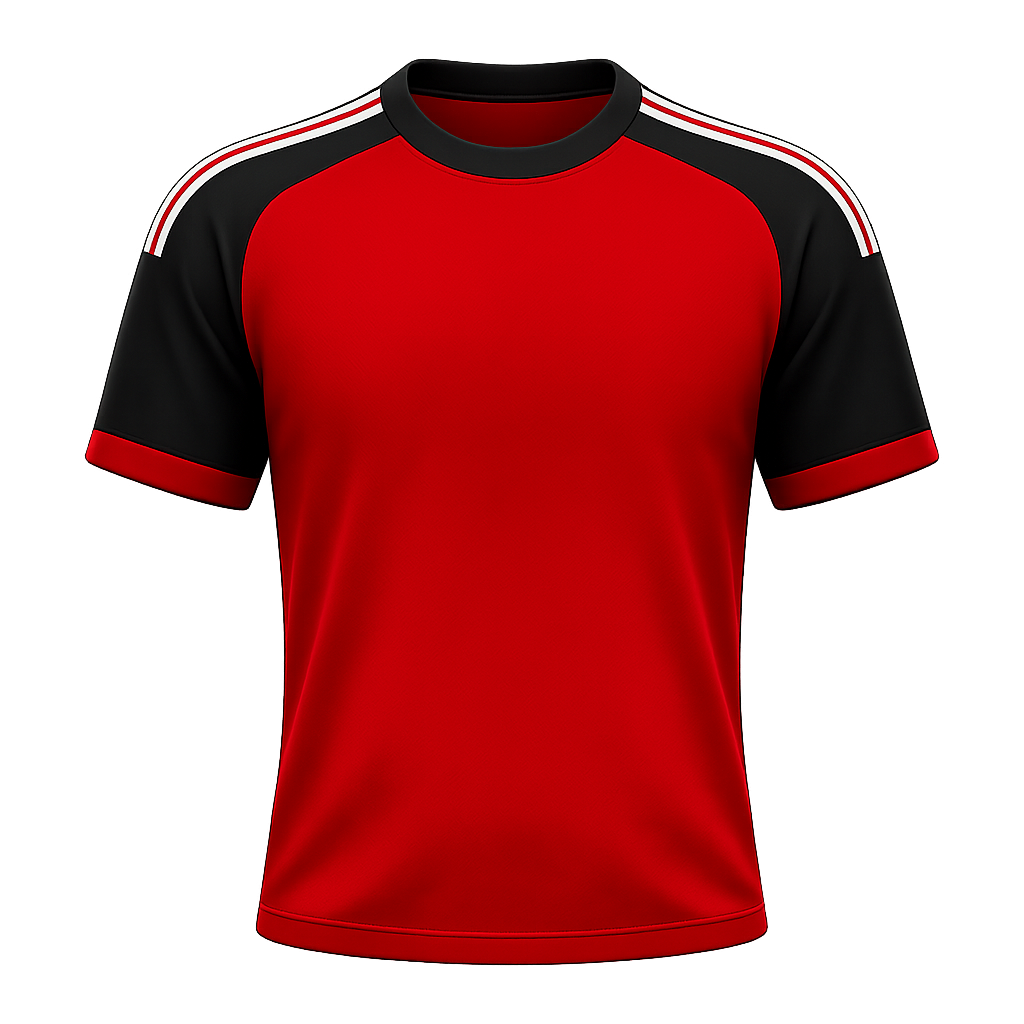
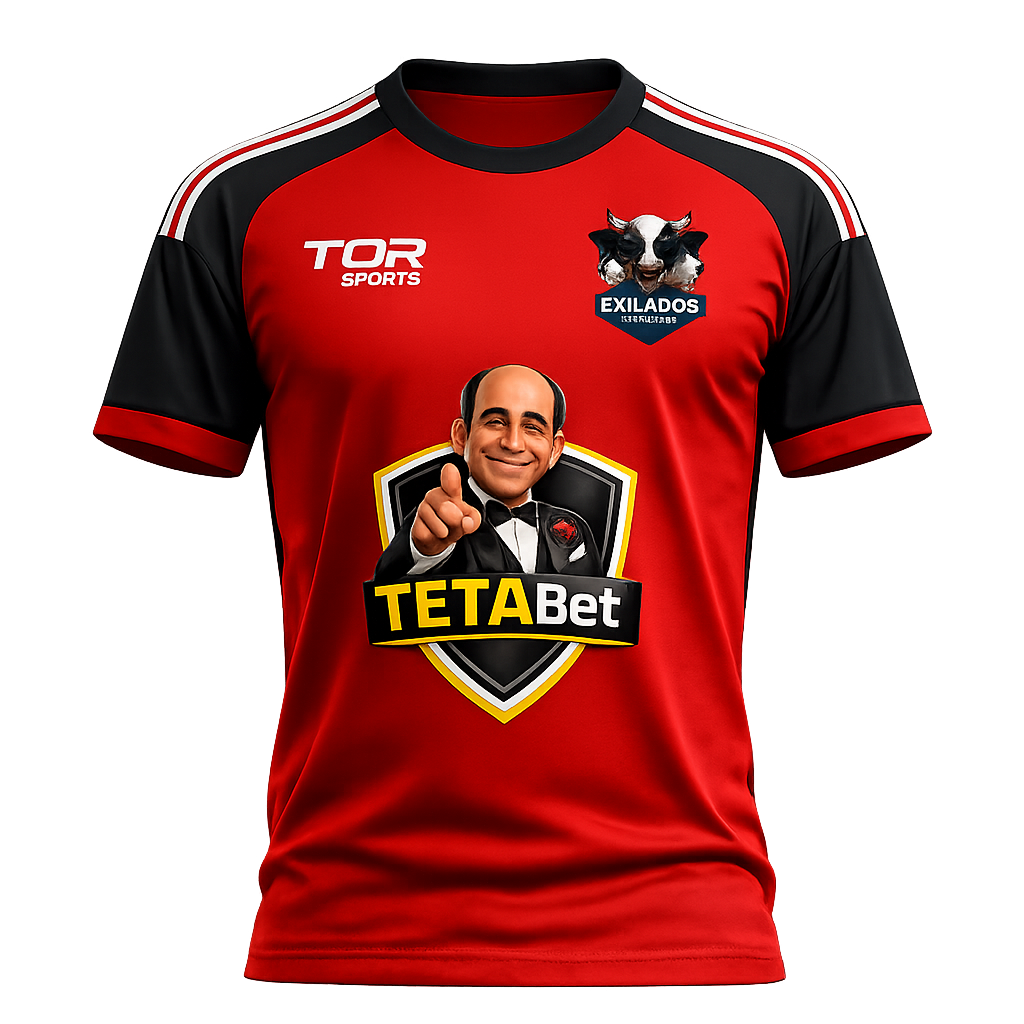
Add files via upload

diff --git a/index.html b/index.html
@@ -182,11 +182,11 @@
   <div class="page-body">
     <div class="teams-grid">
       <div class="team-col">
-        <div class="th-blue"><div style="display:flex;align-items:center;gap:8px;"><svg width="28" height="26" viewBox="0 0 100 110"><defs><clipPath id="clipAzul"><polygon points="0,22 22,0 50,12 78,0 100,22 84,34 84,110 16,110 16,34"/></clipPath></defs><polygon points="0,22 22,0 50,12 78,0 100,22 84,34 84,110 16,110 16,34" fill="#185FA5" stroke="#0C447C" stroke-width="2"/><ellipse cx="50" cy="13" rx="14" ry="9" fill="#FAC775" stroke="#0C447C" stroke-width="1.5"/><rect x="0" y="38" width="100" height="14" fill="#FAC775" clip-path="url(#clipAzul)"/><polygon points="0,22 22,0 28,0 8,26" fill="#FAC775" clip-path="url(#clipAzul)"/><polygon points="78,0 100,22 92,26 72,0" fill="#FAC775" clip-path="url(#clipAzul)"/><text x="50" y="90" text-anchor="middle" font-size="28" font-weight="700" fill="white" font-family="sans-serif">10</text></svg><div style="flex:1;text-align:center;"><div class="team-title y">Time Azul</div><div class="team-cnt y" id="jt-cnt-a">0 jog.</div></div></div></div>
+        <div class="th-blue"><div style="display:flex;align-items:center;gap:8px;"><img class="team-shirt-icon" src="camisa-azul.png?v=2" alt="Camisa do Time Azul"/><div style="flex:1;text-align:center;"><div class="team-title y">Time Azul</div><div class="team-cnt y" id="jt-cnt-a">0 jog.</div></div></div></div>
         <div class="team-body" id="jt-team-a"></div>
       </div>
       <div class="team-col">
-        <div class="th-red"><div style="display:flex;align-items:center;gap:8px;"><svg width="28" height="26" viewBox="0 0 100 110"><defs><clipPath id="clipVerm"><polygon points="0,22 22,0 50,12 78,0 100,22 84,34 84,110 16,110 16,34"/></clipPath></defs><polygon points="0,22 22,0 50,12 78,0 100,22 84,34 84,110 16,110 16,34" fill="#A32D2D" stroke="#791F1F" stroke-width="2"/><ellipse cx="50" cy="13" rx="14" ry="9" fill="#2C2C2A" stroke="#444441" stroke-width="1.5"/><polygon points="16,34 0,34 0,110 28,110 28,34" fill="#2C2C2A" clip-path="url(#clipVerm)"/><polygon points="84,34 100,34 100,110 72,110 72,34" fill="#2C2C2A" clip-path="url(#clipVerm)"/><polygon points="0,22 22,0 28,0 8,26" fill="#2C2C2A" clip-path="url(#clipVerm)"/><polygon points="78,0 100,22 92,26 72,0" fill="#2C2C2A" clip-path="url(#clipVerm)"/><text x="50" y="90" text-anchor="middle" font-size="28" font-weight="700" fill="white" font-family="sans-serif">10</text></svg><div style="flex:1;text-align:center;"><div class="team-title w">Time Vermelho</div><div class="team-cnt w" id="jt-cnt-b">0 jog.</div></div></div></div>
+        <div class="th-red"><div style="display:flex;align-items:center;gap:8px;"><img class="team-shirt-icon" src="camisa-vermelha.png?v=2" alt="Camisa do Time Vermelho"/><div style="flex:1;text-align:center;"><div class="team-title w">Time Vermelho</div><div class="team-cnt w" id="jt-cnt-b">0 jog.</div></div></div></div>
         <div class="team-body" id="jt-team-b"></div>
       </div>
     </div>
@@ -416,7 +416,7 @@
       <div class="teams-grid">
         <div class="team-col">
           <div class="th-blue"><div style="display:flex;align-items:center;gap:8px;">
-            <svg width="28" height="26" viewBox="0 0 100 110"><defs><clipPath id="clipAzul"><polygon points="0,22 22,0 50,12 78,0 100,22 84,34 84,110 16,110 16,34"/></clipPath></defs><polygon points="0,22 22,0 50,12 78,0 100,22 84,34 84,110 16,110 16,34" fill="#185FA5" stroke="#0C447C" stroke-width="2"/><ellipse cx="50" cy="13" rx="14" ry="9" fill="#FAC775" stroke="#0C447C" stroke-width="1.5"/><rect x="0" y="38" width="100" height="14" fill="#FAC775" clip-path="url(#clipAzul)"/><polygon points="0,22 22,0 28,0 8,26" fill="#FAC775" clip-path="url(#clipAzul)"/><polygon points="78,0 100,22 92,26 72,0" fill="#FAC775" clip-path="url(#clipAzul)"/><text x="50" y="90" text-anchor="middle" font-size="28" font-weight="700" fill="white" font-family="sans-serif">10</text></svg>
+            <img class="team-shirt-icon" src="camisa-azul.png?v=2" alt="Camisa do Time Azul">
             <div style="flex:1;text-align:center;"><div class="team-title y">Time Azul</div><div class="team-cnt y" id="at-cnt-a">0 jog.</div></div>
           </div></div>
           <div class="team-body" id="at-team-a" ondragover="allowDrop(event)" ondrop="dropTo(event,'azul')">
@@ -425,7 +425,7 @@
         </div>
         <div class="team-col">
           <div class="th-red"><div style="display:flex;align-items:center;gap:8px;">
-            <svg width="28" height="26" viewBox="0 0 100 110"><defs><clipPath id="clipVerm"><polygon points="0,22 22,0 50,12 78,0 100,22 84,34 84,110 16,110 16,34"/></clipPath></defs><polygon points="0,22 22,0 50,12 78,0 100,22 84,34 84,110 16,110 16,34" fill="#A32D2D" stroke="#791F1F" stroke-width="2"/><ellipse cx="50" cy="13" rx="14" ry="9" fill="#2C2C2A" stroke="#444441" stroke-width="1.5"/><polygon points="16,34 0,34 0,110 28,110 28,34" fill="#2C2C2A" clip-path="url(#clipVerm)"/><polygon points="84,34 100,34 100,110 72,110 72,34" fill="#2C2C2A" clip-path="url(#clipVerm)"/><polygon points="0,22 22,0 28,0 8,26" fill="#2C2C2A" clip-path="url(#clipVerm)"/><polygon points="78,0 100,22 92,26 72,0" fill="#2C2C2A" clip-path="url(#clipVerm)"/><text x="50" y="90" text-anchor="middle" font-size="28" font-weight="700" fill="white" font-family="sans-serif">10</text></svg>
+            <img class="team-shirt-icon" src="camisa-vermelha.png?v=2" alt="Camisa do Time Vermelho">
             <div style="flex:1;text-align:center;"><div class="team-title w">Time Vermelho</div><div class="team-cnt w" id="at-cnt-b">0 jog.</div></div>
           </div></div>
           <div class="team-body" id="at-team-b" ondragover="allowDrop(event)" ondrop="dropTo(event,'vermelho')">
@@ -669,7 +669,7 @@
       <div class="resumo-time-azul">
         <div class="resumo-time-nome">Time Azul</div>
         <div class="resumo-score-wrap resumo-score-wrap-azul">
-          <svg class="resumo-camisa resumo-camisa-azul" viewBox="0 0 100 110" aria-hidden="true"><defs><clipPath id="resumoClipAzul"><polygon points="0,22 22,0 50,12 78,0 100,22 84,34 84,110 16,110 16,34"/></clipPath></defs><polygon points="0,22 22,0 50,12 78,0 100,22 84,34 84,110 16,110 16,34" fill="#185FA5" stroke="#0C447C" stroke-width="2"/><ellipse cx="50" cy="13" rx="14" ry="9" fill="#FAC775" stroke="#0C447C" stroke-width="1.5"/><rect x="0" y="38" width="100" height="14" fill="#FAC775" clip-path="url(#resumoClipAzul)"/><polygon points="0,22 22,0 28,0 8,26" fill="#FAC775" clip-path="url(#resumoClipAzul)"/><polygon points="78,0 100,22 92,26 72,0" fill="#FAC775" clip-path="url(#resumoClipAzul)"/><text x="50" y="90" text-anchor="middle" font-size="28" font-weight="700" fill="white" font-family="sans-serif">10</text></svg>
+        <img class="resumo-camisa resumo-camisa-azul" src="camisa-azul.png?v=2" alt="Camisa do Time Azul"/>
           <div class="resumo-gols" id="resumo-gols-azul">–</div>
         </div>
       </div>
@@ -677,8 +677,8 @@
       <div class="resumo-time-verm">
         <div class="resumo-time-nome">Time Vermelho</div>
         <div class="resumo-score-wrap resumo-score-wrap-verm">
-          <div class="resumo-gols" id="resumo-gols-verm">–</div>
-          <svg class="resumo-camisa resumo-camisa-verm" viewBox="0 0 100 110" aria-hidden="true"><defs><clipPath id="resumoClipVerm"><polygon points="0,22 22,0 50,12 78,0 100,22 84,34 84,110 16,110 16,34"/></clipPath></defs><polygon points="0,22 22,0 50,12 78,0 100,22 84,34 84,110 16,110 16,34" fill="#A32D2D" stroke="#791F1F" stroke-width="2"/><ellipse cx="50" cy="13" rx="14" ry="9" fill="#2C2C2A" stroke="#444441" stroke-width="1.5"/><polygon points="16,34 0,34 0,110 28,110 28,34" fill="#2C2C2A" clip-path="url(#resumoClipVerm)"/><polygon points="84,34 100,34 100,110 72,110 72,34" fill="#2C2C2A" clip-path="url(#resumoClipVerm)"/><polygon points="0,22 22,0 28,0 8,26" fill="#2C2C2A" clip-path="url(#resumoClipVerm)"/><polygon points="78,0 100,22 92,26 72,0" fill="#2C2C2A" clip-path="url(#resumoClipVerm)"/><text x="50" y="90" text-anchor="middle" font-size="28" font-weight="700" fill="white" font-family="sans-serif">10</text></svg>
+        <div class="resumo-gols" id="resumo-gols-verm">–</div>
+        <img class="resumo-camisa resumo-camisa-verm" src="camisa-vermelha.png?v=2" alt="Camisa do Time Vermelho"/>
         </div>
       </div>
     </div>
@@ -713,14 +713,14 @@
       <div class="teams-grid" style="margin-bottom:12px;">
         <div class="team-col">
           <div class="th-blue"><div style="display:flex;align-items:center;gap:8px;">
-            <svg width="28" height="26" viewBox="0 0 100 110"><defs><clipPath id="clipResAzul"><polygon points="0,22 22,0 50,12 78,0 100,22 84,34 84,110 16,110 16,34"/></clipPath></defs><polygon points="0,22 22,0 50,12 78,0 100,22 84,34 84,110 16,110 16,34" fill="#185FA5" stroke="#0C447C" stroke-width="2"/><ellipse cx="50" cy="13" rx="14" ry="9" fill="#FAC775" stroke="#0C447C" stroke-width="1.5"/><rect x="0" y="38" width="100" height="14" fill="#FAC775" clip-path="url(#clipResAzul)"/><polygon points="0,22 22,0 28,0 8,26" fill="#FAC775" clip-path="url(#clipResAzul)"/><polygon points="78,0 100,22 92,26 72,0" fill="#FAC775" clip-path="url(#clipResAzul)"/><text x="50" y="90" text-anchor="middle" font-size="28" font-weight="700" fill="white" font-family="sans-serif">10</text></svg>
+            <img class="team-shirt-icon" src="camisa-azul.png?v=2" alt="Camisa do Time Azul">
             <div style="flex:1;text-align:center;"><div class="team-title y">Time Azul</div></div>
           </div></div>
           <div class="team-body" id="resumo-team-a"></div>
         </div>
         <div class="team-col">
           <div class="th-red"><div style="display:flex;align-items:center;gap:8px;">
-            <svg width="28" height="26" viewBox="0 0 100 110"><defs><clipPath id="clipResVerm"><polygon points="0,22 22,0 50,12 78,0 100,22 84,34 84,110 16,110 16,34"/></clipPath></defs><polygon points="0,22 22,0 50,12 78,0 100,22 84,34 84,110 16,110 16,34" fill="#A32D2D" stroke="#791F1F" stroke-width="2"/><ellipse cx="50" cy="13" rx="14" ry="9" fill="#2C2C2A" stroke="#444441" stroke-width="1.5"/><polygon points="16,34 0,34 0,110 28,110 28,34" fill="#2C2C2A" clip-path="url(#clipResVerm)"/><polygon points="84,34 100,34 100,110 72,110 72,34" fill="#2C2C2A" clip-path="url(#clipResVerm)"/><polygon points="0,22 22,0 28,0 8,26" fill="#2C2C2A" clip-path="url(#clipResVerm)"/><polygon points="78,0 100,22 92,26 72,0" fill="#2C2C2A" clip-path="url(#clipResVerm)"/><text x="50" y="90" text-anchor="middle" font-size="28" font-weight="700" fill="white" font-family="sans-serif">10</text></svg>
+            <img class="team-shirt-icon" src="camisa-vermelha.png?v=2" alt="Camisa do Time Vermelho">
             <div style="flex:1;text-align:center;"><div class="team-title w">Time Vermelho</div></div>
           </div></div>
           <div class="team-body" id="resumo-team-b"></div>
@@ -741,14 +741,14 @@
       <div class="teams-grid">
         <div class="team-col">
           <div class="th-blue"><div style="display:flex;align-items:center;gap:8px;">
-            <svg width="28" height="26" viewBox="0 0 100 110"><defs><clipPath id="clipEscAzul"><polygon points="0,22 22,0 50,12 78,0 100,22 84,34 84,110 16,110 16,34"/></clipPath></defs><polygon points="0,22 22,0 50,12 78,0 100,22 84,34 84,110 16,110 16,34" fill="#185FA5" stroke="#0C447C" stroke-width="2"/><ellipse cx="50" cy="13" rx="14" ry="9" fill="#FAC775" stroke="#0C447C" stroke-width="1.5"/><rect x="0" y="38" width="100" height="14" fill="#FAC775" clip-path="url(#clipEscAzul)"/><polygon points="0,22 22,0 28,0 8,26" fill="#FAC775" clip-path="url(#clipEscAzul)"/><polygon points="78,0 100,22 92,26 72,0" fill="#FAC775" clip-path="url(#clipEscAzul)"/><text x="50" y="90" text-anchor="middle" font-size="28" font-weight="700" fill="white" font-family="sans-serif">10</text></svg>
+            <img class="team-shirt-icon" src="camisa-azul.png?v=2" alt="Camisa do Time Azul">
             <div style="flex:1;text-align:center;"><div class="team-title y">Time Azul</div><div class="team-cnt y" id="resumo-esc-cnt-a">0 jog.</div></div>
           </div></div>
           <div class="team-body" id="resumo-esc-a"></div>
         </div>
         <div class="team-col">
           <div class="th-red"><div style="display:flex;align-items:center;gap:8px;">
-            <svg width="28" height="26" viewBox="0 0 100 110"><defs><clipPath id="clipEscVerm"><polygon points="0,22 22,0 50,12 78,0 100,22 84,34 84,110 16,110 16,34"/></clipPath></defs><polygon points="0,22 22,0 50,12 78,0 100,22 84,34 84,110 16,110 16,34" fill="#A32D2D" stroke="#791F1F" stroke-width="2"/><ellipse cx="50" cy="13" rx="14" ry="9" fill="#2C2C2A" stroke="#444441" stroke-width="1.5"/><polygon points="16,34 0,34 0,110 28,110 28,34" fill="#2C2C2A" clip-path="url(#clipEscVerm)"/><polygon points="84,34 100,34 100,110 72,110 72,34" fill="#2C2C2A" clip-path="url(#clipEscVerm)"/><polygon points="0,22 22,0 28,0 8,26" fill="#2C2C2A" clip-path="url(#clipEscVerm)"/><polygon points="78,0 100,22 92,26 72,0" fill="#2C2C2A" clip-path="url(#clipEscVerm)"/><text x="50" y="90" text-anchor="middle" font-size="28" font-weight="700" fill="white" font-family="sans-serif">10</text></svg>
+            <img class="team-shirt-icon" src="camisa-vermelha.png?v=2" alt="Camisa do Time Vermelho">
             <div style="flex:1;text-align:center;"><div class="team-title w">Time Vermelho</div><div class="team-cnt w" id="resumo-esc-cnt-b">0 jog.</div></div>
           </div></div>
           <div class="team-body" id="resumo-esc-b"></div>

diff --git a/style.css b/style.css
@@ -221,14 +221,21 @@ html, body { height:100%; background:var(--bg); font-family:'Inter',sans-serif; 
 /* -- TEAMS --------------------------------- */
 .teams-grid      { display:grid; grid-template-columns:1fr 1fr; gap:10px; margin-bottom:14px; }
 .team-col        { border-radius:var(--radius); overflow:hidden; border:.5px solid var(--border2); }
-.th-blue         { background:var(--uni-blue); padding:10px 12px 8px; }
-.th-red          { background:var(--uni-red);  padding:10px 12px 8px; }
+.th-blue         { background:#2d47c7; padding:10px 12px 8px; }
+.th-red          { background:#d63a32;  padding:10px 12px 8px; }
 .team-title      { font-family:'Barlow Condensed',sans-serif; font-size:14px; font-weight:700; }
 .team-title.y    { color:var(--uni-yellow); }
 .team-title.w    { color:var(--white); }
 .team-cnt        { font-size:10px; font-weight:600; }
 .team-cnt.y      { color:rgba(245,200,0,.75); }
 .team-cnt.w      { color:rgba(255,255,255,.65); }
+.team-shirt-icon {
+  width:28px;
+  height:31px;
+  display:block;
+  object-fit:contain;
+  flex-shrink:0;
+}
 .team-body       { padding:8px; min-height:90px; background:var(--surface); }
 .team-slot       { padding:5px 7px; border-radius:8px; margin-bottom:4px; display:flex; align-items:center; gap:4px; background:var(--surface2); }
 .team-slot.editable { cursor:default; }

diff --git a/sw.js b/sw.js
@@ -2,7 +2,7 @@
 // EXILADOS DA BOLA - Service Worker (PWA)
 // ==========================================
 
-const CACHE_NAME = 'exilados-v39';
+const CACHE_NAME = 'exilados-v41';
 
 // Arquivos que ficam no cache para funcionar offline
 const STATIC_ASSETS = [
@@ -18,6 +18,8 @@ const STATIC_ASSETS = [
   '/js/voting.js',
   '/js/bootstrap.js',
   '/logo.png',
+  '/camisa-azul.png?v=2',
+  '/camisa-vermelha.png?v=2',
   '/icon-192.png',
   '/icon-512.png',
   '/apple-touch-icon.png',